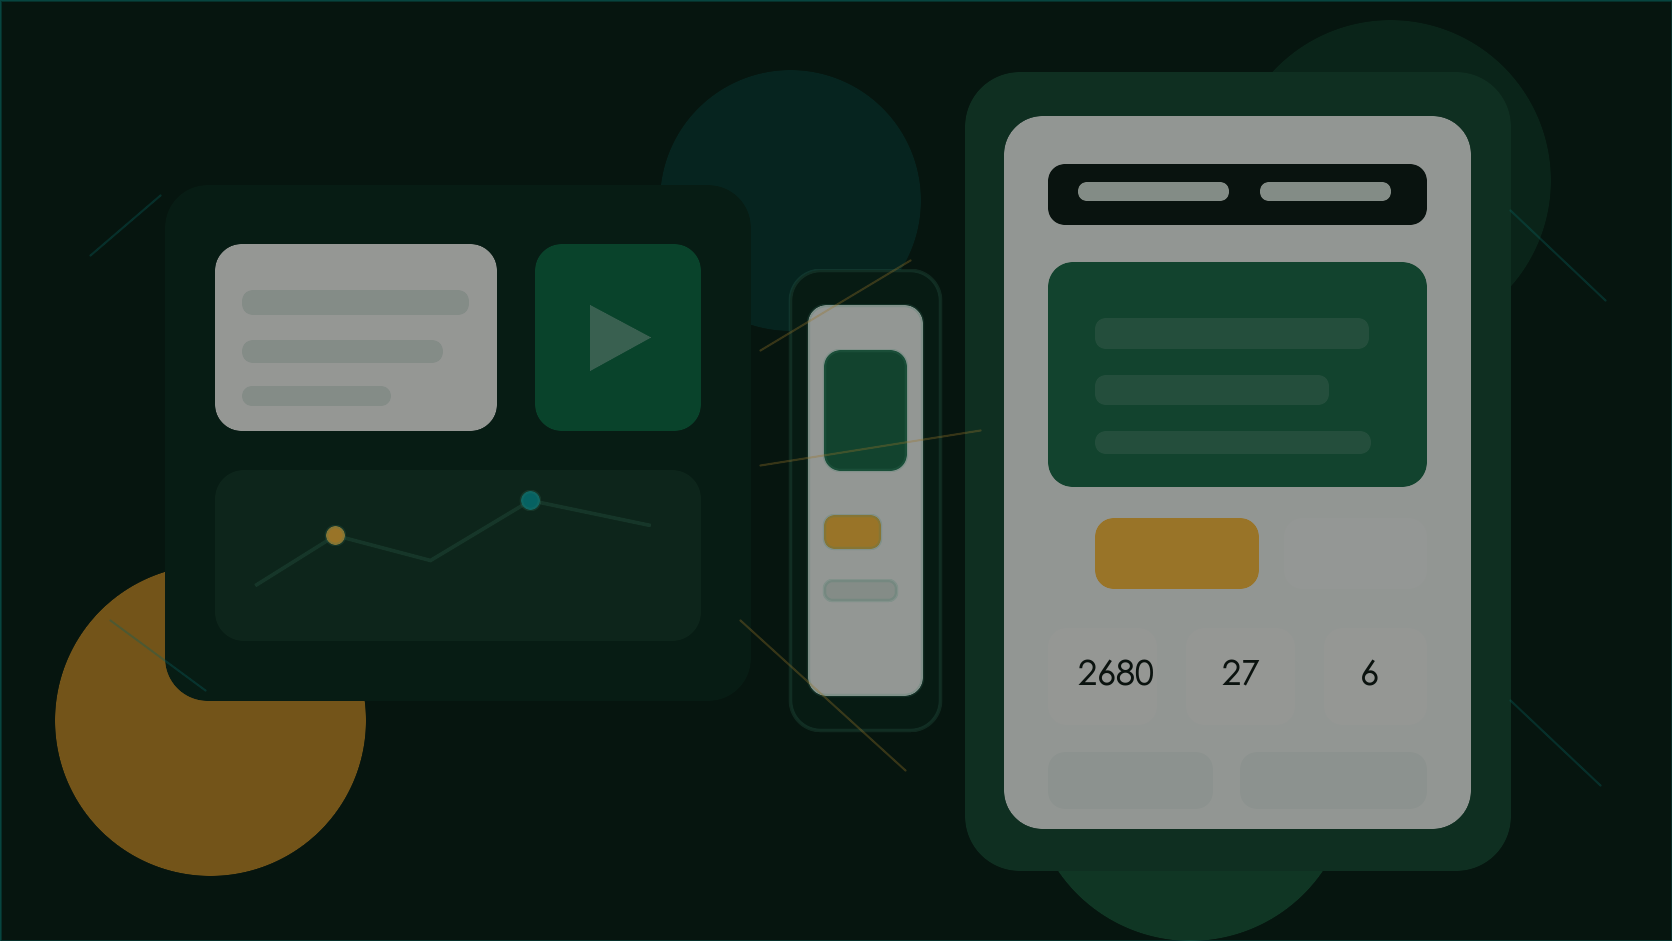
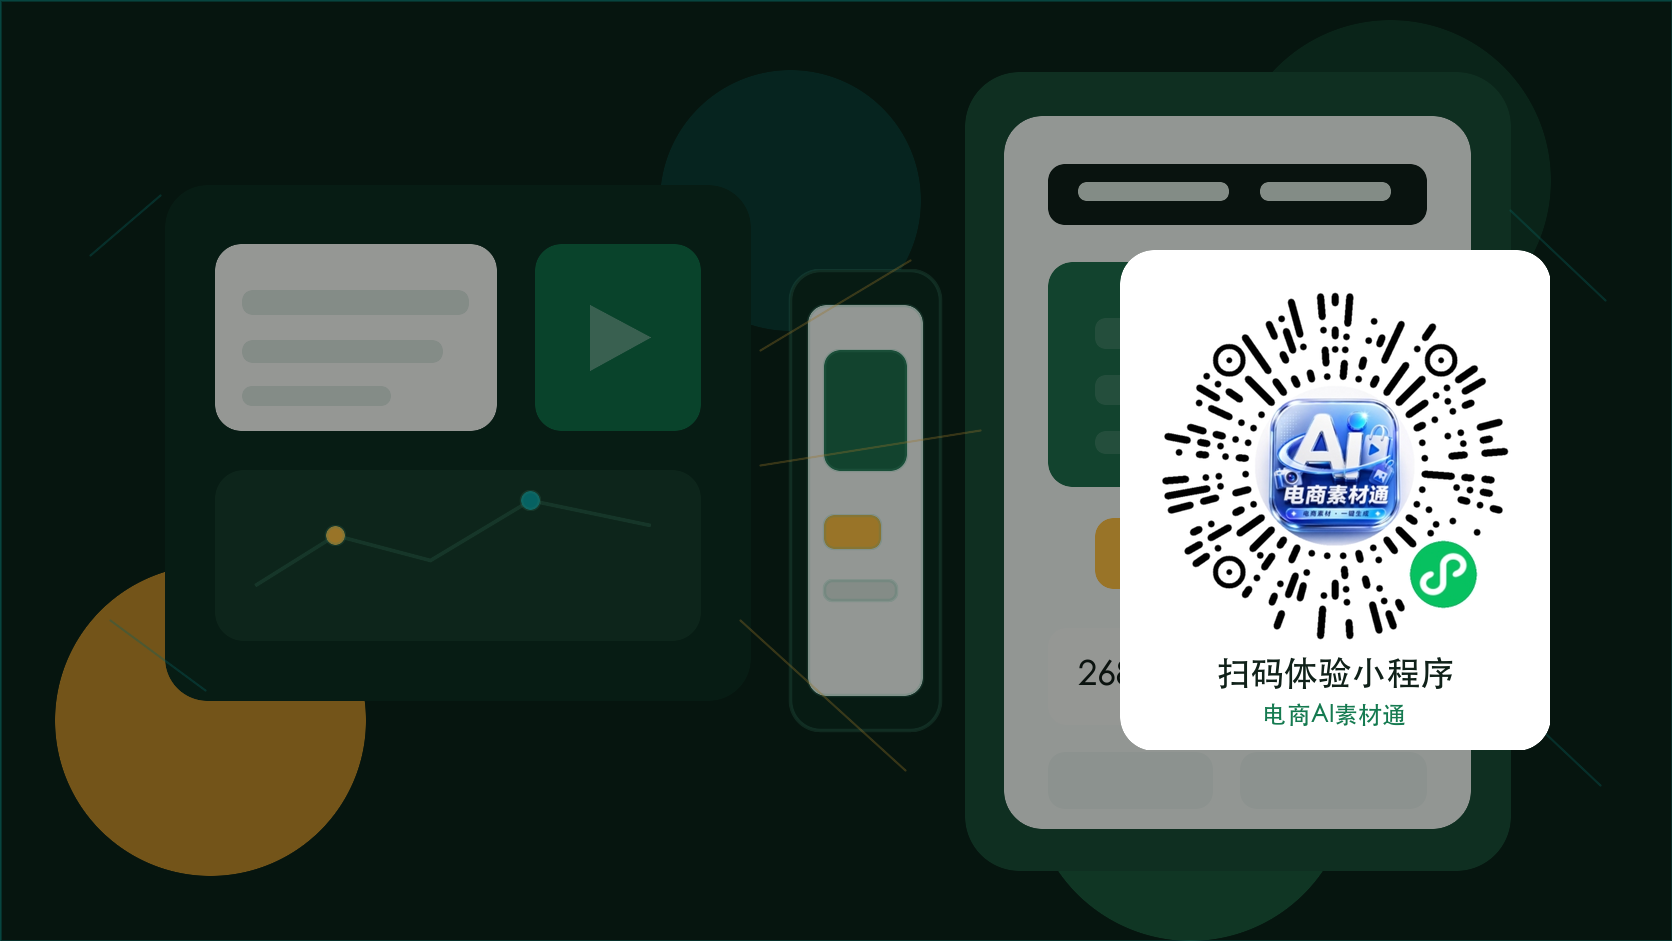
Embed Sucaitong mini program QR

Changed region(s): [[0.6531, 0.2465, 0.933, 0.8013]]

diff --git a/style.css b/style.css
@@ -2420,6 +2420,16 @@ footer::before {
         radial-gradient(circle at 18% 18%, rgba(255, 143, 76, 0.18), transparent 34%);
 }
 
+.project-card-sucaitong::before {
+    background:
+        linear-gradient(90deg, rgba(26, 26, 24, 0.9) 0%, rgba(26, 26, 24, 0.66) 38%, rgba(26, 26, 24, 0.2) 66%, rgba(26, 26, 24, 0.03) 100%),
+        radial-gradient(circle at 18% 18%, rgba(255, 143, 76, 0.14), transparent 34%);
+}
+
+.project-card-sucaitong .project-visual {
+    object-position: 76% center;
+}
+
 .project-card::after {
     content: "";
     position: absolute;
@@ -2674,6 +2684,27 @@ footer::before {
     }
     .project-card-featured .project-name {
         font-size: 24px;
+    }
+    .project-card-sucaitong .project-visual {
+        object-position: 84% center;
+    }
+    .project-card-sucaitong .project-card-content {
+        max-width: 42%;
+    }
+    .project-card-sucaitong .project-name {
+        font-size: 26px;
+        line-height: 1.16;
+    }
+    .project-card-sucaitong .project-desc {
+        display: none;
+    }
+    .project-card-sucaitong .project-meta {
+        gap: 6px;
+    }
+    .project-card-sucaitong .project-status,
+    .project-card-sucaitong .project-tag {
+        font-size: 10px;
+        letter-spacing: 0.04em;
     }
     .project-card-content {
         padding: 28px 24px 24px;

diff --git a/index.html b/index.html
@@ -763,7 +763,7 @@
                     </div>
                 </div>
             </a>
-            <div class="project-card project-card-wide reveal">
+            <div class="project-card project-card-wide project-card-sucaitong reveal">
                 <img class="project-visual" src="project-sucaitong.png" alt="" loading="lazy" aria-hidden="true">
                 <div class="project-card-content">
                     <div class="project-icon">📣</div>
